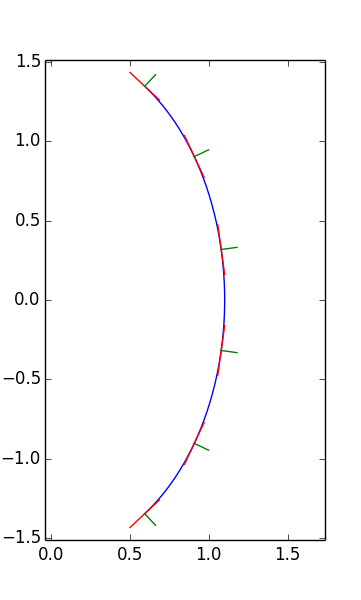
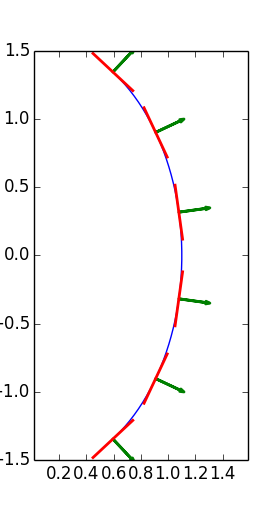
Rewritting Pong Physics post.

diff --git a/_posts/2014-07-06-Pong-Physics.md b/_posts/2014-07-06-Pong-Physics.md
@@ -1,0 +1,35 @@
+---
+title: Pong Physics
+date: 2014-07-06 22:20:00 -0300
+layout: post
+comments: true
+---
+Pong is one of the earliest arcade games, written to run in very simple hardware but with some interesting
+properties with regards to its physics system. Basically, when the ball collides with the paddle it's direction
+is inverted and it starts going to the other side of the screen. However, Pong itself and its several clones
+implement this in way that the ball behaves differently accordingly to the part of the paddle it hits. This is
+exactly where things get a bit more interesting.
+
+<div style="text-align:center" markdown="1">
+![Ellipse Normals](/images/ellipse-normals.png)
+</div>
+
+The approach I took was to model the paddle as a convex surface, using the [parametric
+equation of the ellipse](http://en.wikipedia.org/wiki/Ellipse#Parametric_form_in_canonical_position) and
+its first derivative to obtain tangents (red lines in the figure above). After obtaining the equation for
+the tangents, we can obtain our normals by finding a perpendicular vector to it (green lines).
+
+![Pong Physics](/images/pong-physics.png)
+The behaviour I wanted for the reflections is illustrated by drawing above. The black, green and red arrows represent
+the current direction vector, surface normal and reflection vector, respectively.
+
+What happens here is that the normals of the surface will affect the output angle of the ball, thus giving the player
+more control on the player morecontrol on where they want the ball to go.
+
+The behaviour can be achieve by applying the [vector form equation of a specular reflection](http://en.wikipedia.org/wiki/Snell%27s_law#Vector_form).
+To do that, we need to evaluate the equation of the normals at a given **t**, where **t** is the normalized height where the
+ball hitted the paddle.
+
+With this last piece, we can finally put our vectors back into the reflection equation and obtain our new direction vector.
+
+And that's pretty much it. Have fun!
